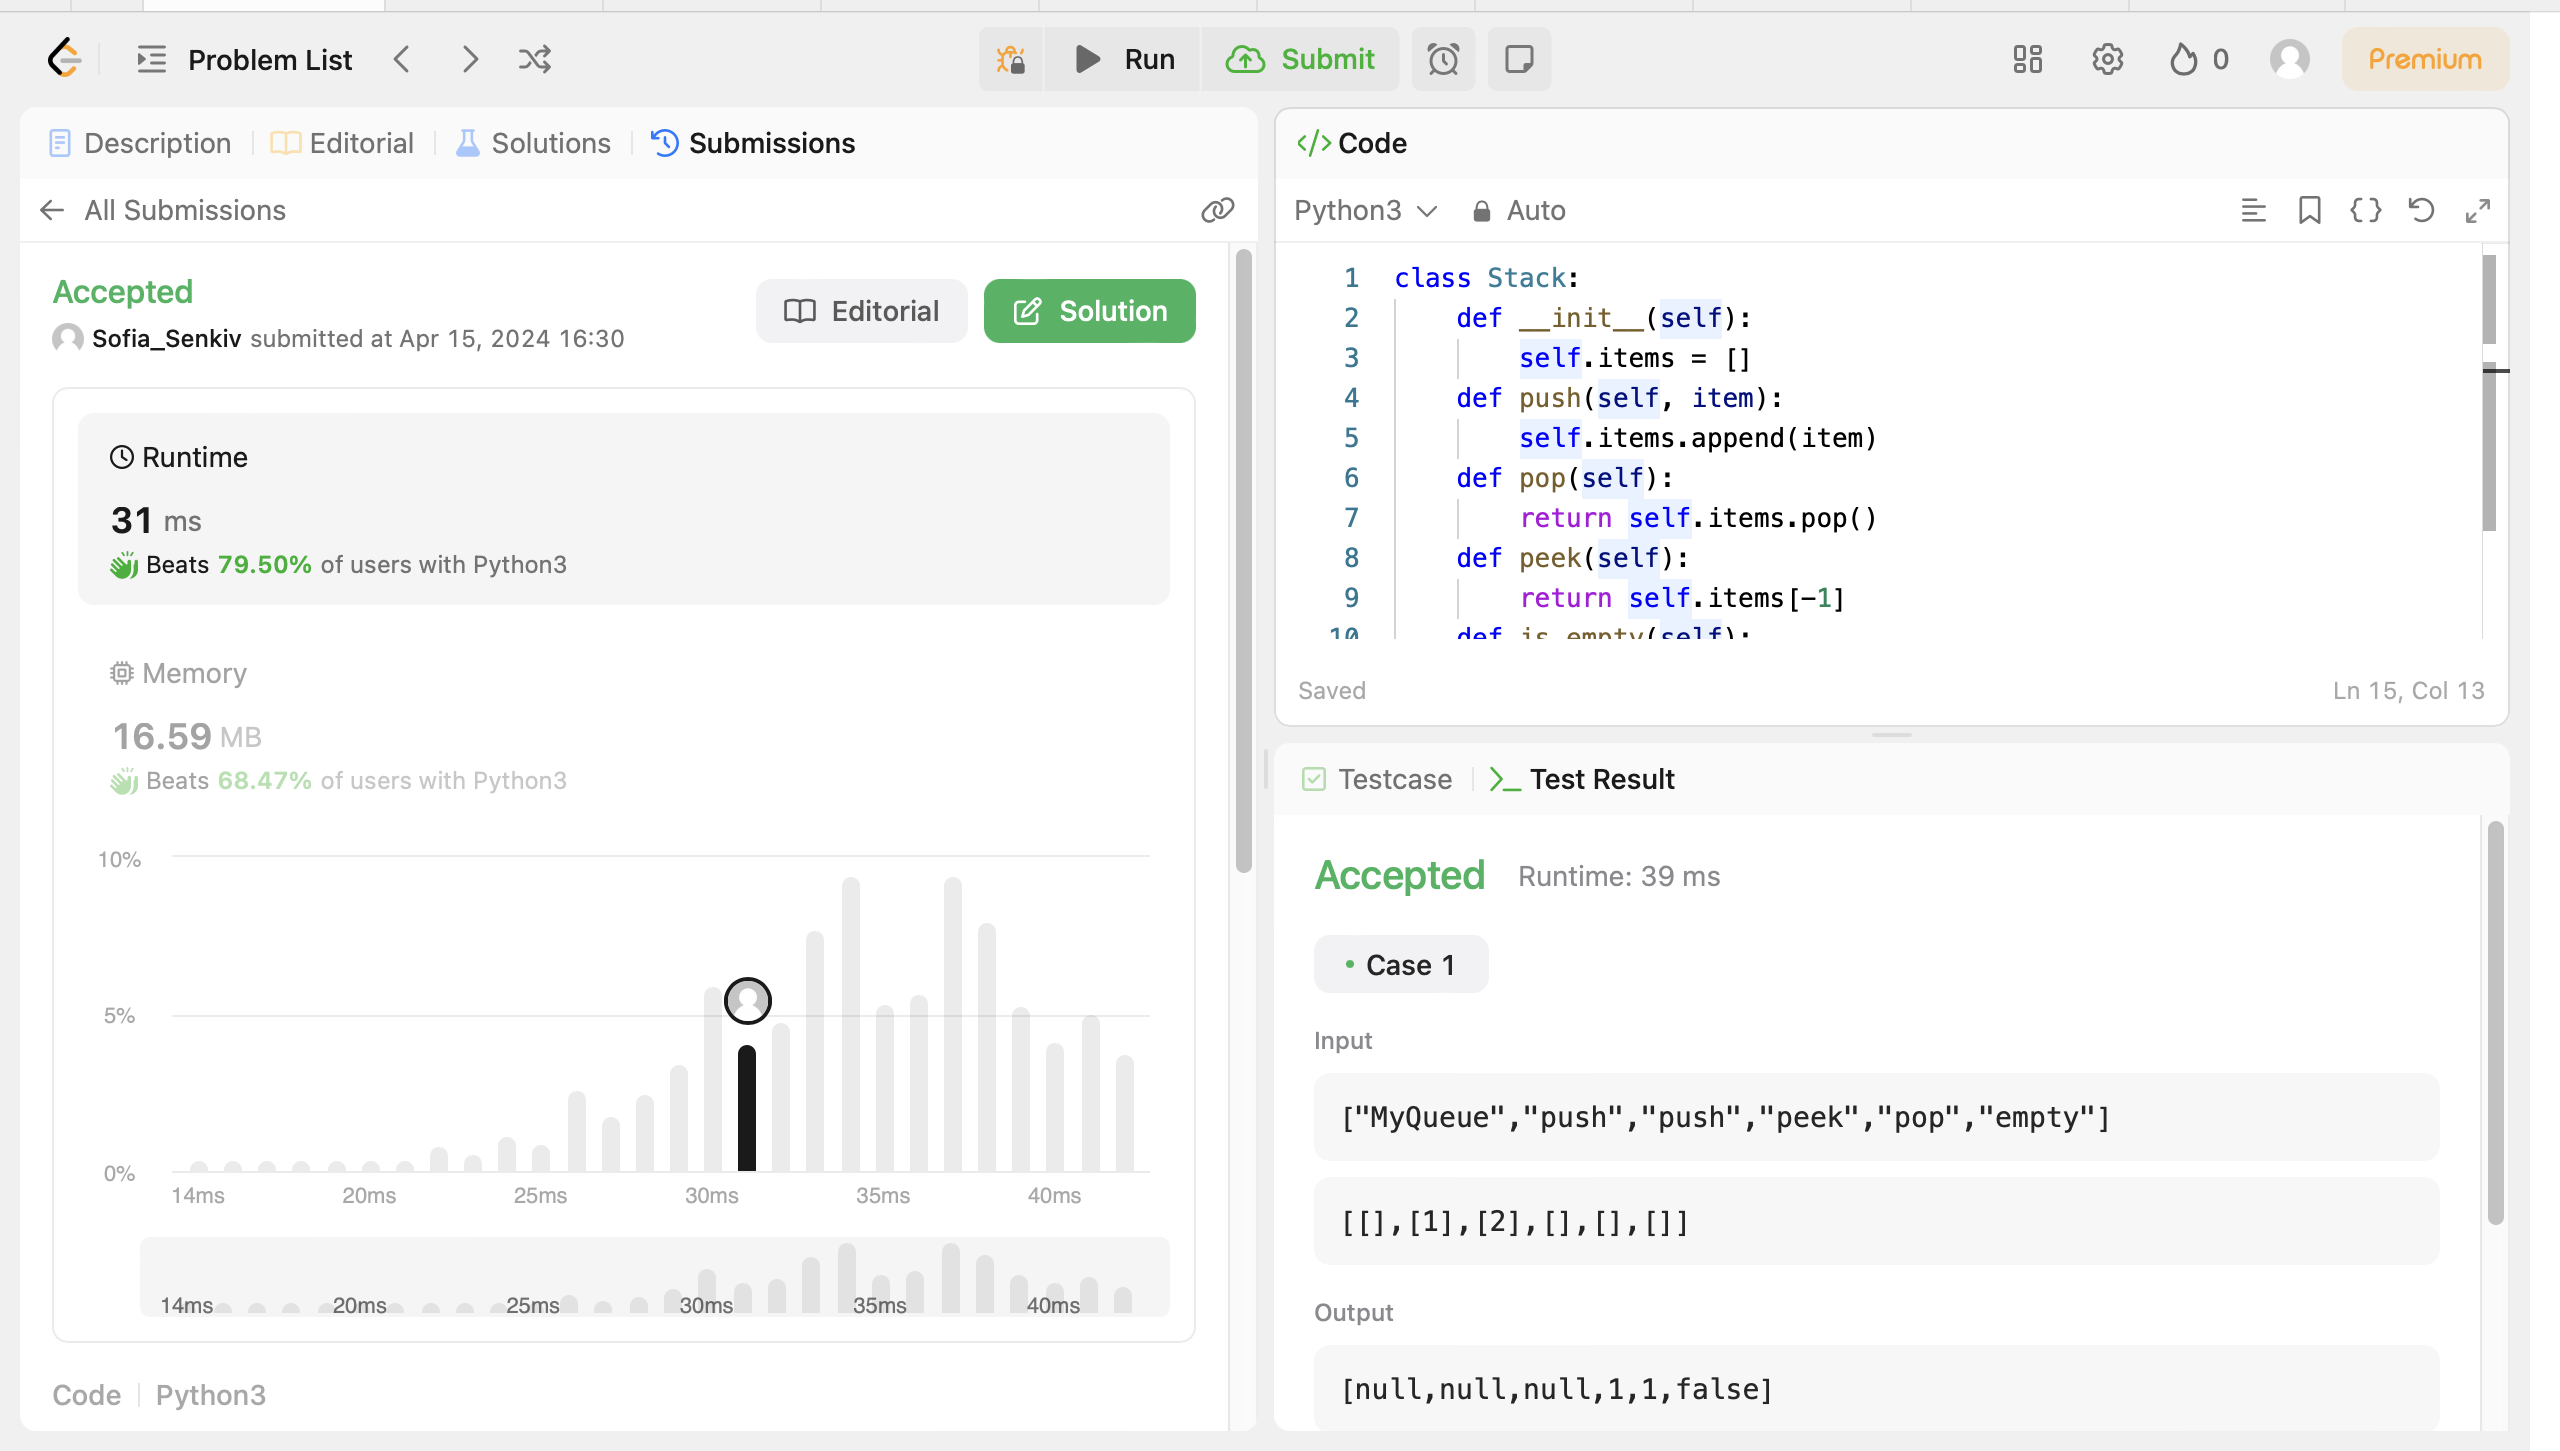
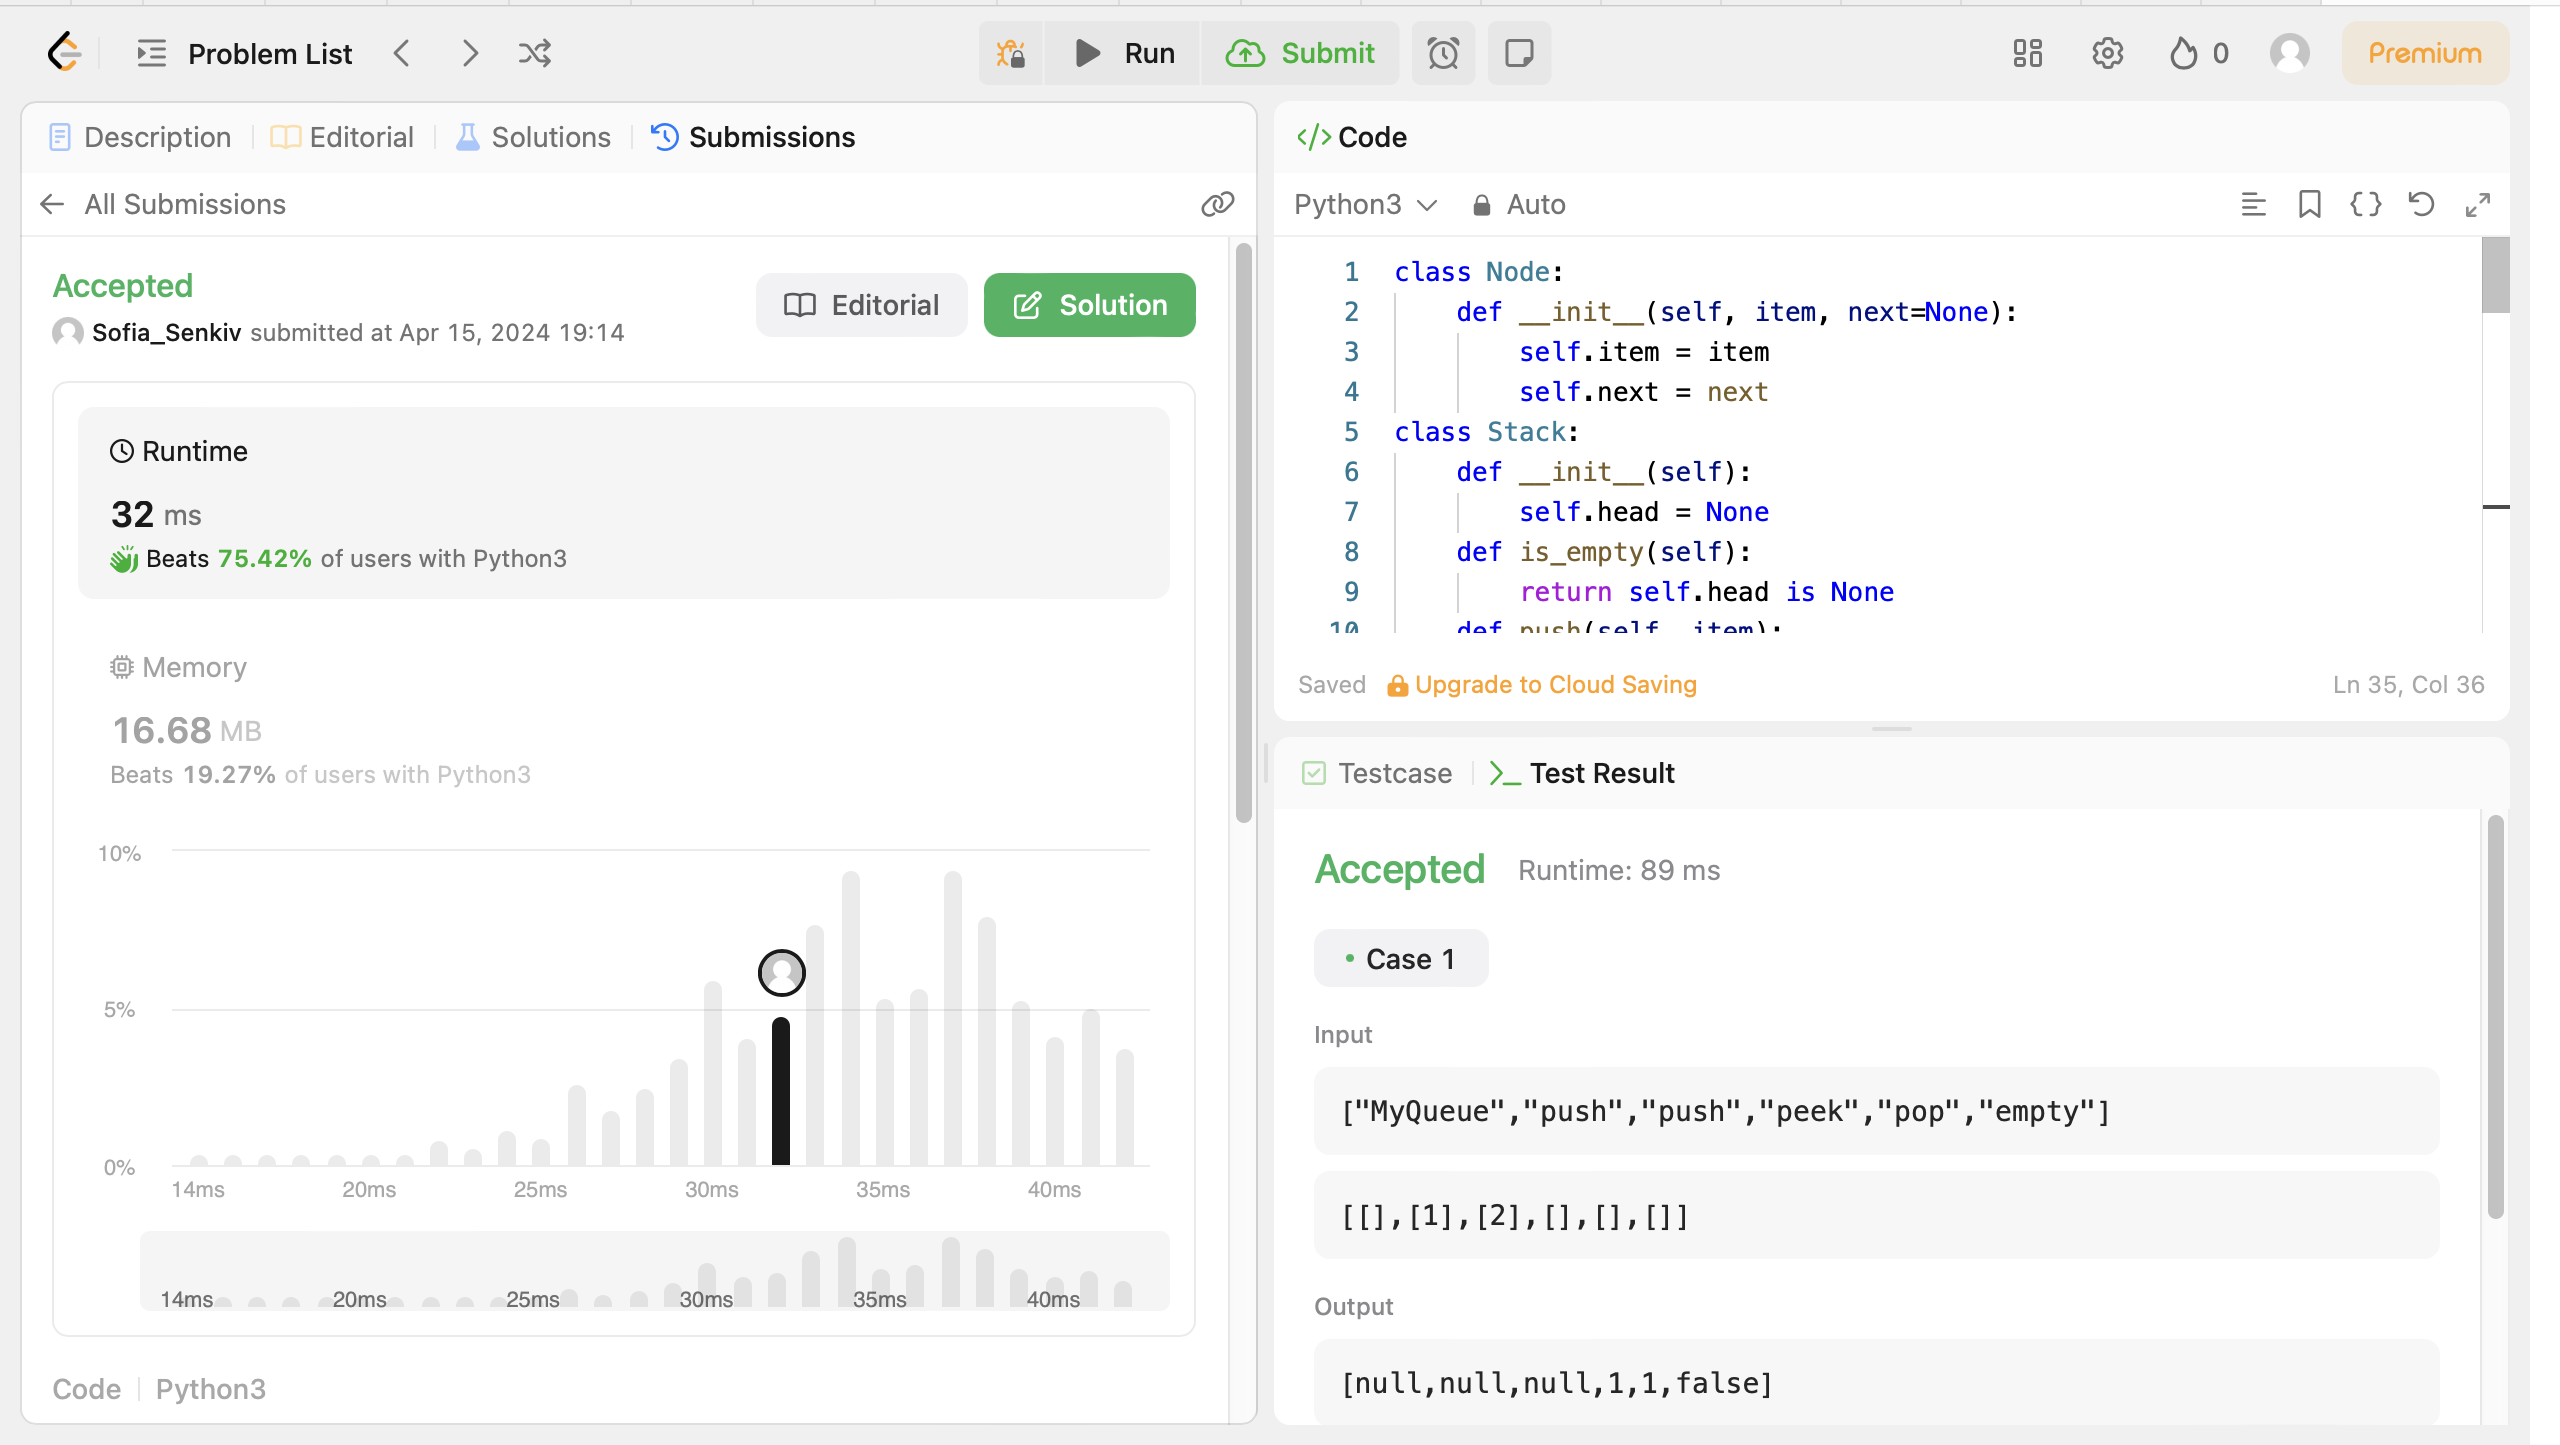
changed class Stack and Node

diff --git a/implement_queue/implement_queue.py b/implement_queue/implement_queue.py
@@ -1,15 +1,21 @@
+class Node:
+    def __init__(self, item, next=None):
+        self.item = item
+        self.next = next
 class Stack:
     def __init__(self):
-        self.items = []
-    def push(self, item):
-        self.items.append(item)
-    def pop(self):
-        return self.items.pop()
-    def peek(self):
-        return self.items[-1]
+        self.head = None
     def is_empty(self):
-        return len(self.items) == 0
-    
+        return self.head is None
+    def push(self, item):
+        self.head = Node(item, self.head)
+    def pop(self):
+        item = self.head.item
+        self.head = self.head.next
+        return item
+    @property
+    def peek(self):
+        return self.head.item
 class MyQueue:
     def __init__(self):
         self.stack1=Stack()
@@ -26,7 +32,7 @@ class MyQueue:
         return self.stack2.pop()
     def peek(self):
         if not self.stack2.is_empty():
-            return self.stack2.peek()
+            return self.stack2.peek
         return self.front
     def empty(self) -> bool:
         return self.stack1.is_empty() and self.stack2.is_empty()
